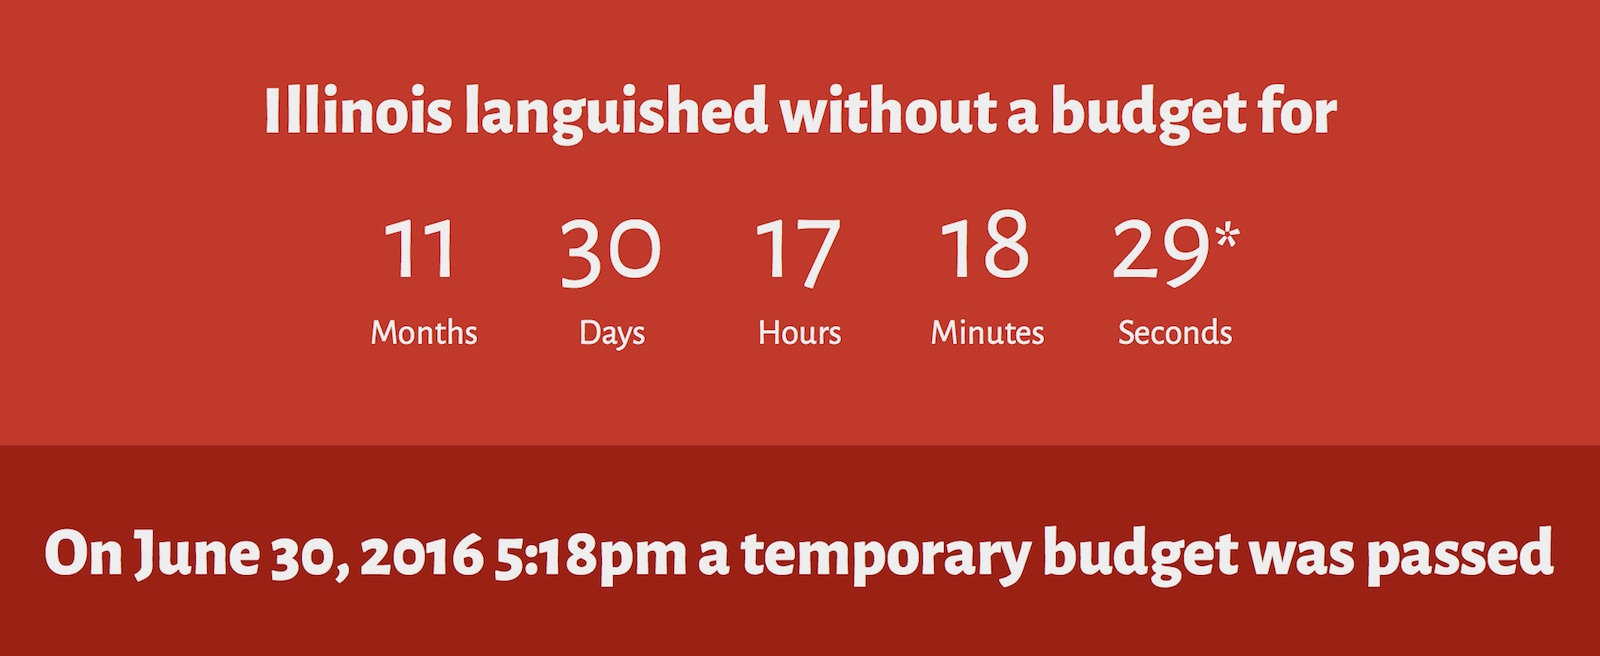
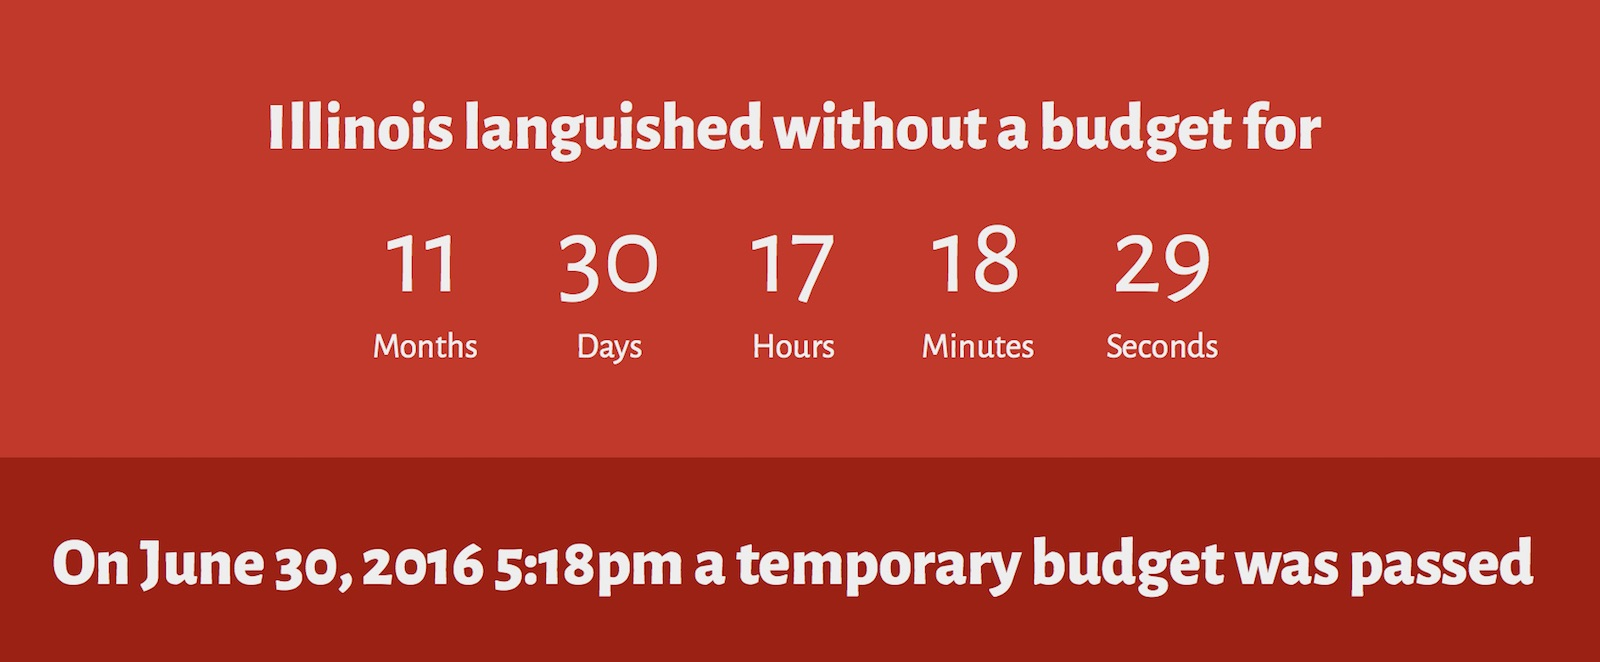
typo, removed asterisk, updated screengrab

diff --git a/index.html b/index.html
@@ -22,7 +22,7 @@ layout: default
             <div class="small">Minutes</div>
         </div>
         <div>
-            <span id="seconds"></span><small title='Email notice of Gov. Rauner signing the buget into law was recieved at 5:18:29pm CST'>*</small>
+            <span id="seconds"></span>
             <div class="small">Seconds</div>
         </div>
     </div>
@@ -59,7 +59,7 @@ layout: default
 
     <p>To <a href='/about.html'>everyone who has provided information and help on this project</a>, thank you.</p>
 
-    <p>Kristi Leech, Cathy Deng &amp; Derek Eder<br />Chi Hack Night</p>
+    <p>Kristi Leach, Cathy Deng &amp; Derek Eder<br />Chi Hack Night</p>
 </div>
 <div class='content'>
 
